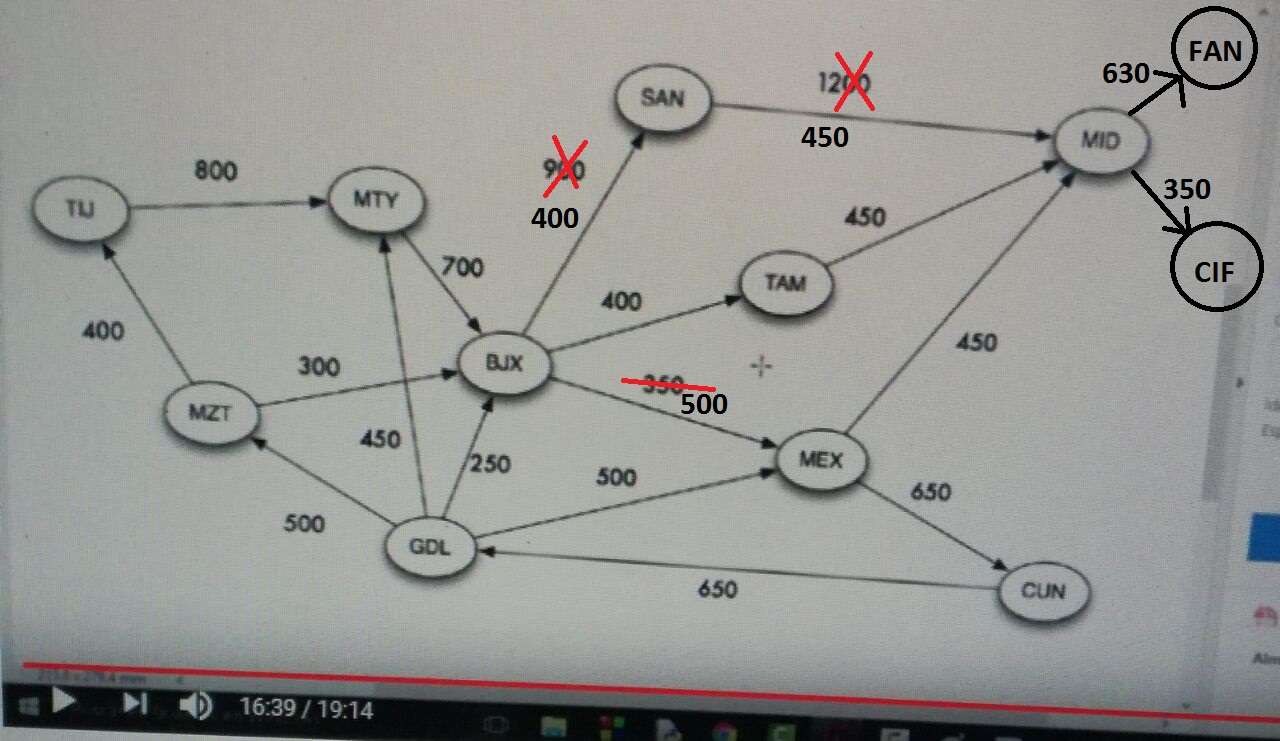
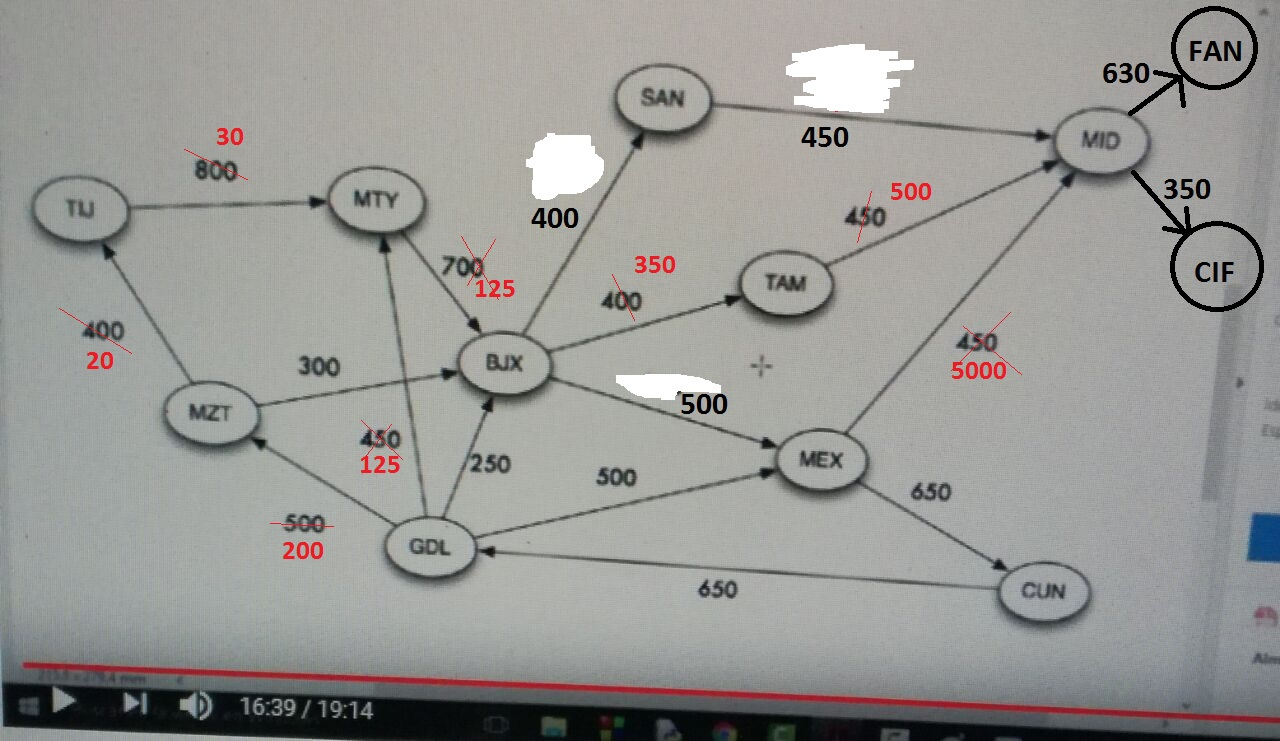
falta poquito

diff --git a/main.cpp b/main.cpp
@@ -63,12 +63,12 @@ int main()
     }
     return 0;
     */
-    gra->agregarArista(gra->obtenerVertice("TIJ"), gra->obtenerVertice("MTY"), 800, 1.5);
-    gra->agregarArista(gra->obtenerVertice("MTY"), gra->obtenerVertice("BJX"), 700, 2.9);
-    gra->agregarArista(gra->obtenerVertice("GDL"), gra->obtenerVertice("MTY"), 450, 10.5);
-    gra->agregarArista(gra->obtenerVertice("MZT"), gra->obtenerVertice("TIJ"), 400, 6.6);
+    gra->agregarArista(gra->obtenerVertice("TIJ"), gra->obtenerVertice("MTY"), 30, 1.5);//800
+    gra->agregarArista(gra->obtenerVertice("MTY"), gra->obtenerVertice("BJX"), 125, 2.9);//700
+    gra->agregarArista(gra->obtenerVertice("GDL"), gra->obtenerVertice("MTY"), 125, 10.5);//450
+    gra->agregarArista(gra->obtenerVertice("MZT"), gra->obtenerVertice("TIJ"), 20, 6.6);//400
     gra->agregarArista(gra->obtenerVertice("MZT"), gra->obtenerVertice("BJX"), 300, 7.61);
-    gra->agregarArista(gra->obtenerVertice("GDL"), gra->obtenerVertice("MZT"), 500, 10.36);
+    gra->agregarArista(gra->obtenerVertice("GDL"), gra->obtenerVertice("MZT"), 200, 10.36);//500
     gra->agregarArista(gra->obtenerVertice("GDL"), gra->obtenerVertice("BJX"), 250, 45.36);
     gra->agregarArista(gra->obtenerVertice("GDL"), gra->obtenerVertice("MEX"), 500, 111.9);
     gra->agregarArista(gra->obtenerVertice("CUN"), gra->obtenerVertice("GDL"), 650, 10.97);
@@ -78,7 +78,7 @@ int main()
     gra->agregarArista(gra->obtenerVertice("BJX"), gra->obtenerVertice("SAN"), 400, 29.9);//900
     gra->agregarArista(gra->obtenerVertice("SAN"), gra->obtenerVertice("MID"), 450, 11.56);//1200
     gra->agregarArista(gra->obtenerVertice("TAM"), gra->obtenerVertice("MID"), 500, 78.2);//450
-    gra->agregarArista(gra->obtenerVertice("MEX"), gra->obtenerVertice("MID"), 450, 18.25);
+    gra->agregarArista(gra->obtenerVertice("MEX"), gra->obtenerVertice("MID"), 5000, 18.25);//450
     gra->agregarArista(gra->obtenerVertice("MID"), gra->obtenerVertice("FAN"), 630, 26.33);
     gra->agregarArista(gra->obtenerVertice("MID"), gra->obtenerVertice("CIF"), 350, 4.66);
 
